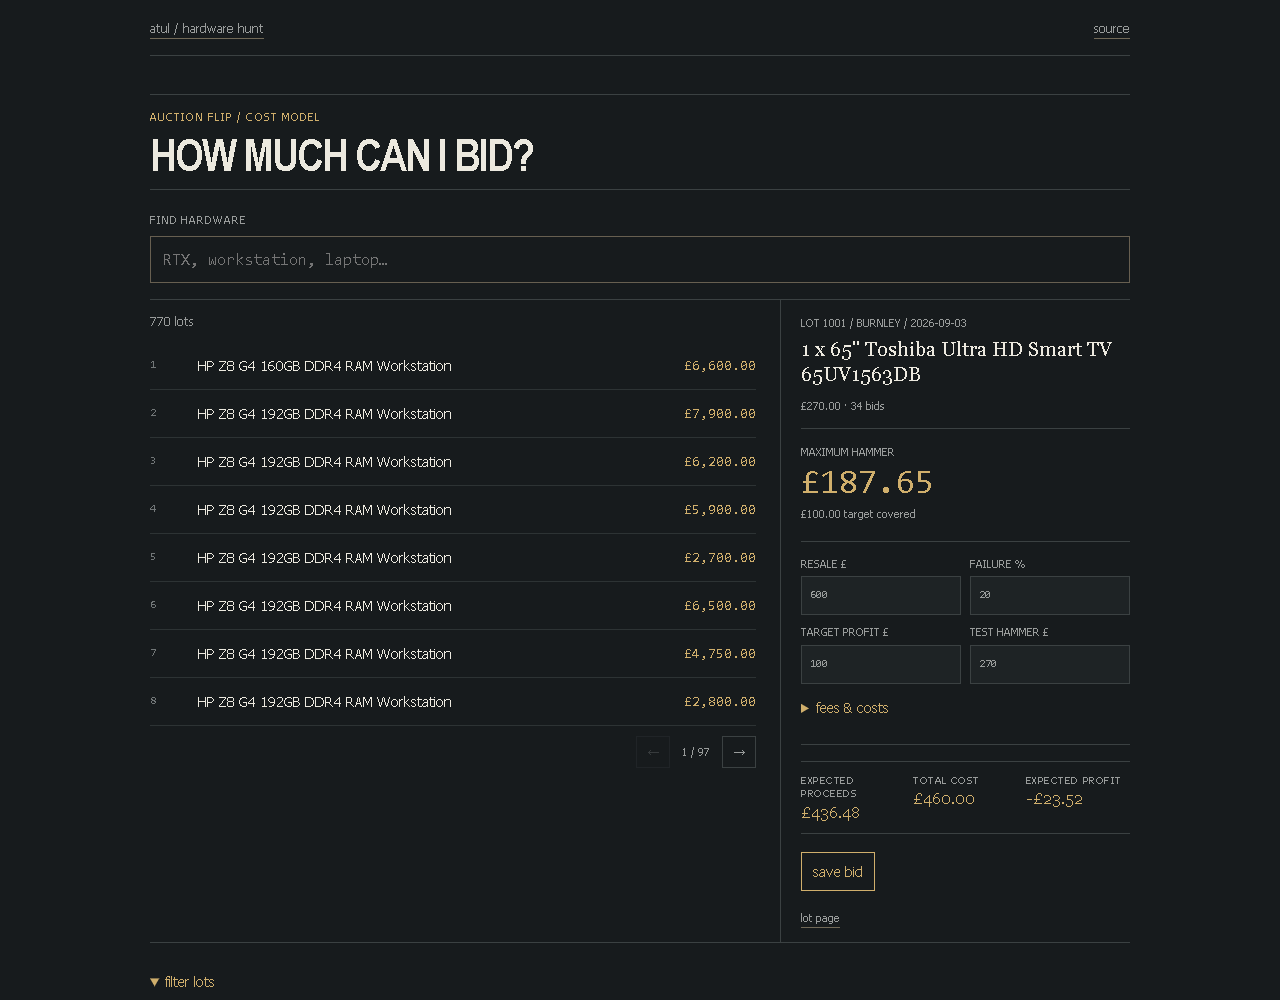
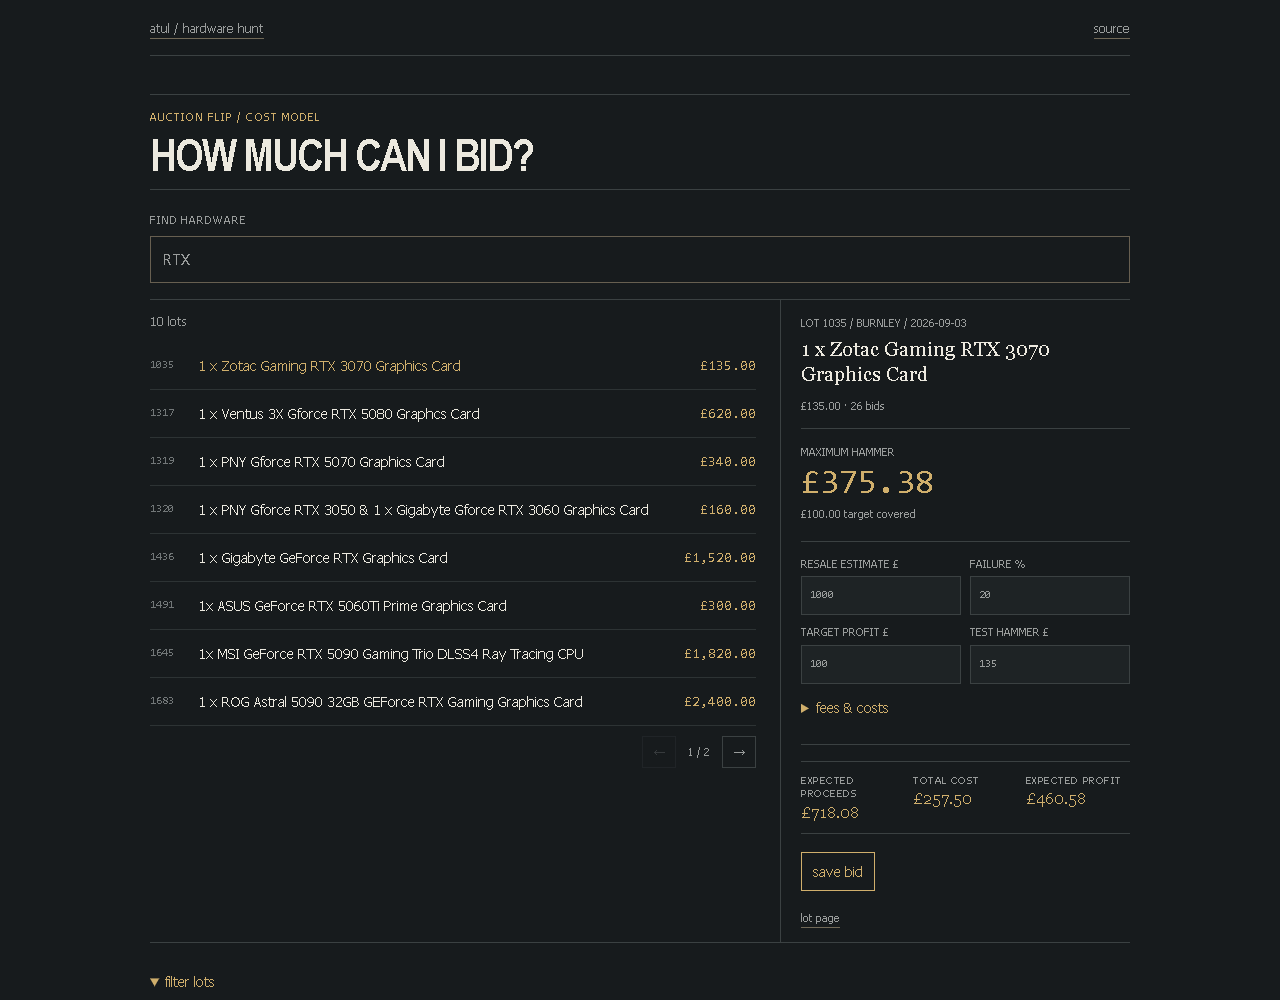
Start bid desk on a sensible GPU lot

diff --git a/examples/portfolio/index.html b/examples/portfolio/index.html
@@ -6,7 +6,7 @@
 <div class="workspace">
 <section class="catalogue"><p id="count" role="status">loading lots…</p><div id="lots"></div><nav class="pagination"><button id="previous">←</button><span id="page"></span><button id="next">→</button></nav></section>
 <aside id="bid-calculator"><a class="back-to-results" href="#lots">← lots</a><p id="lot-sale"></p><h2 id="lot-title">select a lot</h2><p id="lot-result"></p><div id="result"><span>maximum hammer</span><strong id="maximum"></strong><p id="verdict"></p></div>
-<form id="calculator"><div class="inputs"><label>resale £<input id="resale" type="number" min="0" step="10" value="600"></label><label>failure %<input id="failure" type="number" min="0" max="100" value="20"></label><label>target profit £<input id="profit" type="number" min="0" value="100"></label><label>test hammer £<input id="hammer" type="number" min="0" value="0"></label></div><details><summary>fees &amp; costs</summary><div class="inputs"><label>salvage £<input id="salvage" type="number" min="0" value="80"></label><label>selling %<input id="selling" type="number" min="0" max="100" value="12"></label><label>collection £<input id="transport" type="number" min="0" value="35"></label><label>repair £<input id="repair" type="number" min="0" value="20"></label><label>premium %<input id="premium" type="number" min="0" step=".5" value="17.5"></label><label>VAT %<input id="vat" type="number" min="0" max="100" value="20"></label></div></details></form>
+<form id="calculator"><div class="inputs"><label>resale estimate £<input id="resale" type="number" min="0" step="10" value="600"></label><label>failure %<input id="failure" type="number" min="0" max="100" value="20"></label><label>target profit £<input id="profit" type="number" min="0" value="100"></label><label>test hammer £<input id="hammer" type="number" min="0" value="0"></label></div><details><summary>fees &amp; costs</summary><div class="inputs"><label>salvage £<input id="salvage" type="number" min="0" value="80"></label><label>selling %<input id="selling" type="number" min="0" max="100" value="12"></label><label>collection £<input id="transport" type="number" min="0" value="35"></label><label>repair £<input id="repair" type="number" min="0" value="20"></label><label>premium %<input id="premium" type="number" min="0" step=".5" value="17.5"></label><label>VAT %<input id="vat" type="number" min="0" max="100" value="20"></label></div></details></form>
 <p id="error"></p><div class="cash-trace" id="cash-trace" aria-live="polite"><div><span>expected proceeds</span><strong id="trace-proceeds">£0</strong></div><div><span>total cost</span><strong id="trace-acquisition">£0</strong></div><div><span>expected profit</span><strong id="trace-profit">£0</strong></div></div><button id="save">save bid</button><p id="saved-status"></p><a id="lot-source" target="_blank" rel="noopener">lot page</a>
 <div hidden><svg id="waterfall"></svg><dl id="breakdown"></dl><p id="downside"></p></div></aside>
 </div>

diff --git a/tools/browser_audit.py b/tools/browser_audit.py
@@ -22,10 +22,16 @@ try:
         assert page.locator('#trace-acquisition').inner_text().lstrip('-').startswith('£')
         assert page.locator('#trace-profit').inner_text().lstrip('-').startswith('£')
         assert page.locator('.lot[aria-pressed="true"]').count() == 1
+        assert page.locator('#search').input_value() == 'RTX'
+        assert 'RTX 3070' in page.locator('#lot-title').inner_text()
+        assert page.locator('.lot[aria-pressed="true"]').is_visible()
+        page.locator('#resale').fill('777')
         page.locator('#search').fill('laptop')
         assert page.locator('[data-reveal-selected]').is_visible()
+        assert page.locator('#resale').input_value() == '777'
         page.locator('[data-reveal-selected]').click()
         assert not page.locator('[data-reveal-selected]').is_visible()
+        assert page.locator('#resale').input_value() == '777'
         before=page.evaluate('__hardware.result.maxHammer')
         page.locator('#resale').fill('1000')
         assert page.evaluate('__hardware.result.maxHammer')>before
